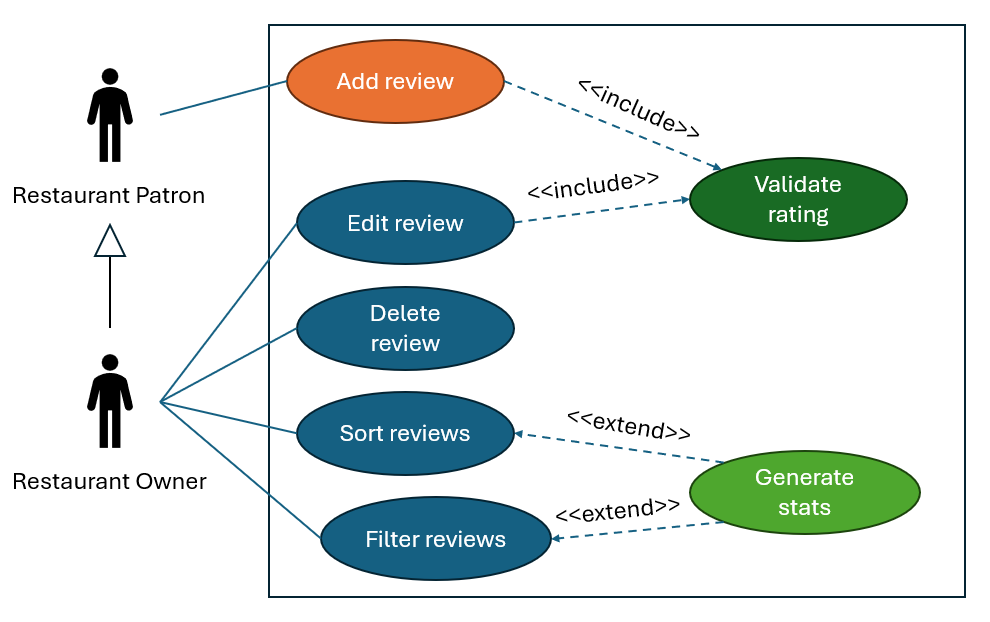
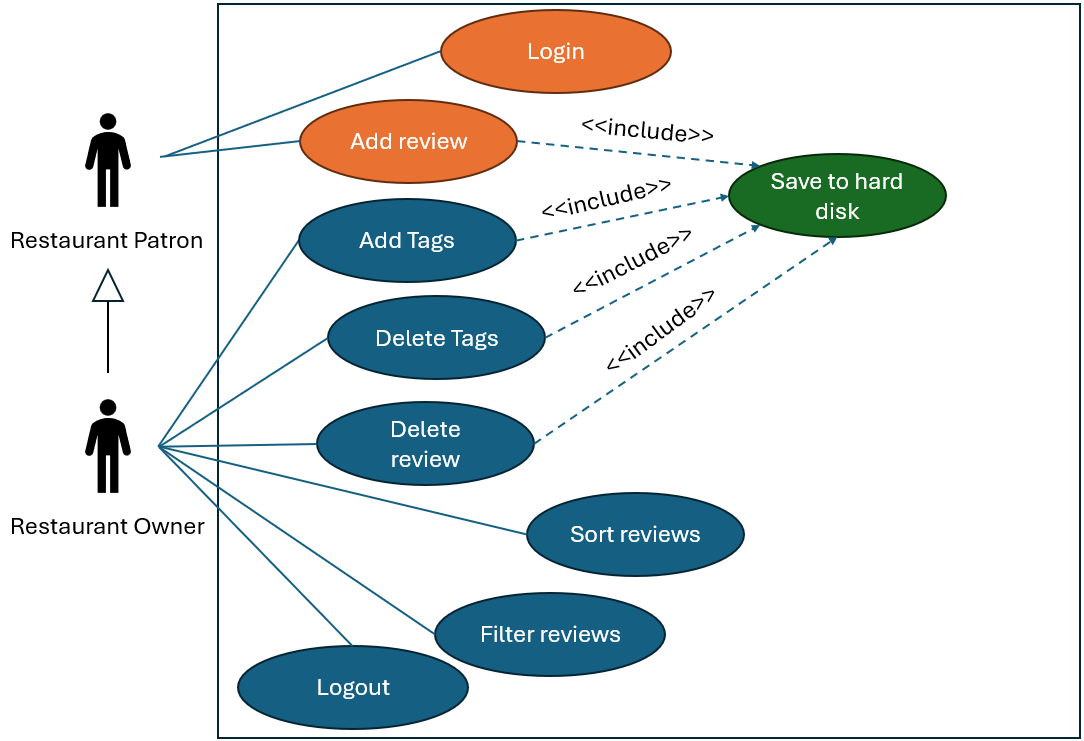
Update use case diagram

diff --git a/docs/SDD.md b/docs/SDD.md
@@ -151,7 +151,13 @@ Filtering Reviews
 ### Use Case Diagram
 
 ![Use Case Diagram](/docs/architecture/use-case-diagram.png)
-Use Case Diagram
+
+The above depicts the use case diagram of the application. The application is designed to be used by both restaurant
+patrons and restaurant owners. However, most of the features are only available to restaurant owners, with patrons only
+being able to leave a review. To access the owner features, the user must log in.
+
+Additionally, as stated in the [Logic class diagram section](#logic-class-diagram), only actions that modify the model
+will invoke the storage layer to save the updated model to the data file.
 
 ### Use Cases
 
@@ -264,6 +270,13 @@ Use Case Diagram
 > **3.** MealMeter filters the reviews based on the criterion\
 > **7.** MealMeter shows the new filtered list\
 > Use case ends.
+>
+> **Extensions:**\
+> **2a.** MealMeter detects an invalid filter criterion\
+> **2a1.** MealMeter shows an error message\
+> **2a2.** Restaurant Owner is prompted to input a valid filter criterion\
+> Steps 2a1 and 2a2 are repeated until the selection is valid.
+> Use case resumes from step 3.
 
 </details>
 
@@ -271,27 +284,30 @@ Use Case Diagram
 
 ## Design Details
 
-### `Ui`
-The `Ui` class handles interaction with the user. It is responsible for collecting user input and displaying output messages.
+### `MealMeterGui`
+The `MealMeterGui` class handles interaction with the user. It is responsible for collecting user input and displaying
+output messages.
 
 **Main responsibilities:**
 - Read user input
 - Display system messages
 
-### `CommandParser`
-The `CommandParser` class interprets raw user input and converts it into a `Command` object that can be executed by the system.
+### `MealMeterController`
+The `MealMeterController` class is responsible for executing user actions. The controller passes user input from
+`MealMeterGui` to the respective `Command` objects and returns a `CommandResult` to `MealMeterGui` after the action is
+completed.
 
 **Main responsibilities:**
-- Parse command keywords
-- Extract command arguments
 - Construct the appropriate `Command`
+- Execute the command
+- Return a `CommandResult` to `MealMeterGui`
 
 ### `Command`
 The `Command` class represents an executable user instruction. Each command stores the information needed for execution.
 
 **Main responsibilities:**
 - Represent a user action
-- Execute logic on the review list
+- Execute logic on the `ReviewList`
 - Interact with storage when needed
 
 ### `Review`
@@ -349,13 +365,16 @@ The system uses structured rating categories:
 This allows restaurants to analyse feedback more effectively than relying only on free-text reviews.
 
 ### Immediate Feedback Collection
-Feedback is collected directly at the point of sale. This improves response rates and helps restaurants capture impressions while the dining experience is still fresh in the patron’s mind.
+Feedback is collected directly at the point of sale. This improves response rates and helps restaurants capture
+impressions while the dining experience is still fresh in the patron’s mind.
 
 ### Layered Architecture
-A 4-tier architecture was chosen to separate presentation, logic, and storage concerns. This improves modularity and makes future enhancements easier to implement.
+A 4-tier architecture was chosen to separate presentation, logic, and storage concerns. This improves modularity and
+makes future enhancements easier to implement.
 
 ### Local File Storage
-The system uses local file-based storage instead of a server-based backend. This keeps deployment simple and aligns with the intended lightweight desktop application design.
+The system uses local file-based storage instead of a server-based backend. This keeps deployment simple and aligns
+with the intended lightweight desktop application design.
 
 ---
 
@@ -363,4 +382,3 @@ The system uses local file-based storage instead of a server-based backend. This
 The following supporting diagrams should be added to complete this document:
 
 - Sequence diagram for deleting a review
-- Use case diagram
